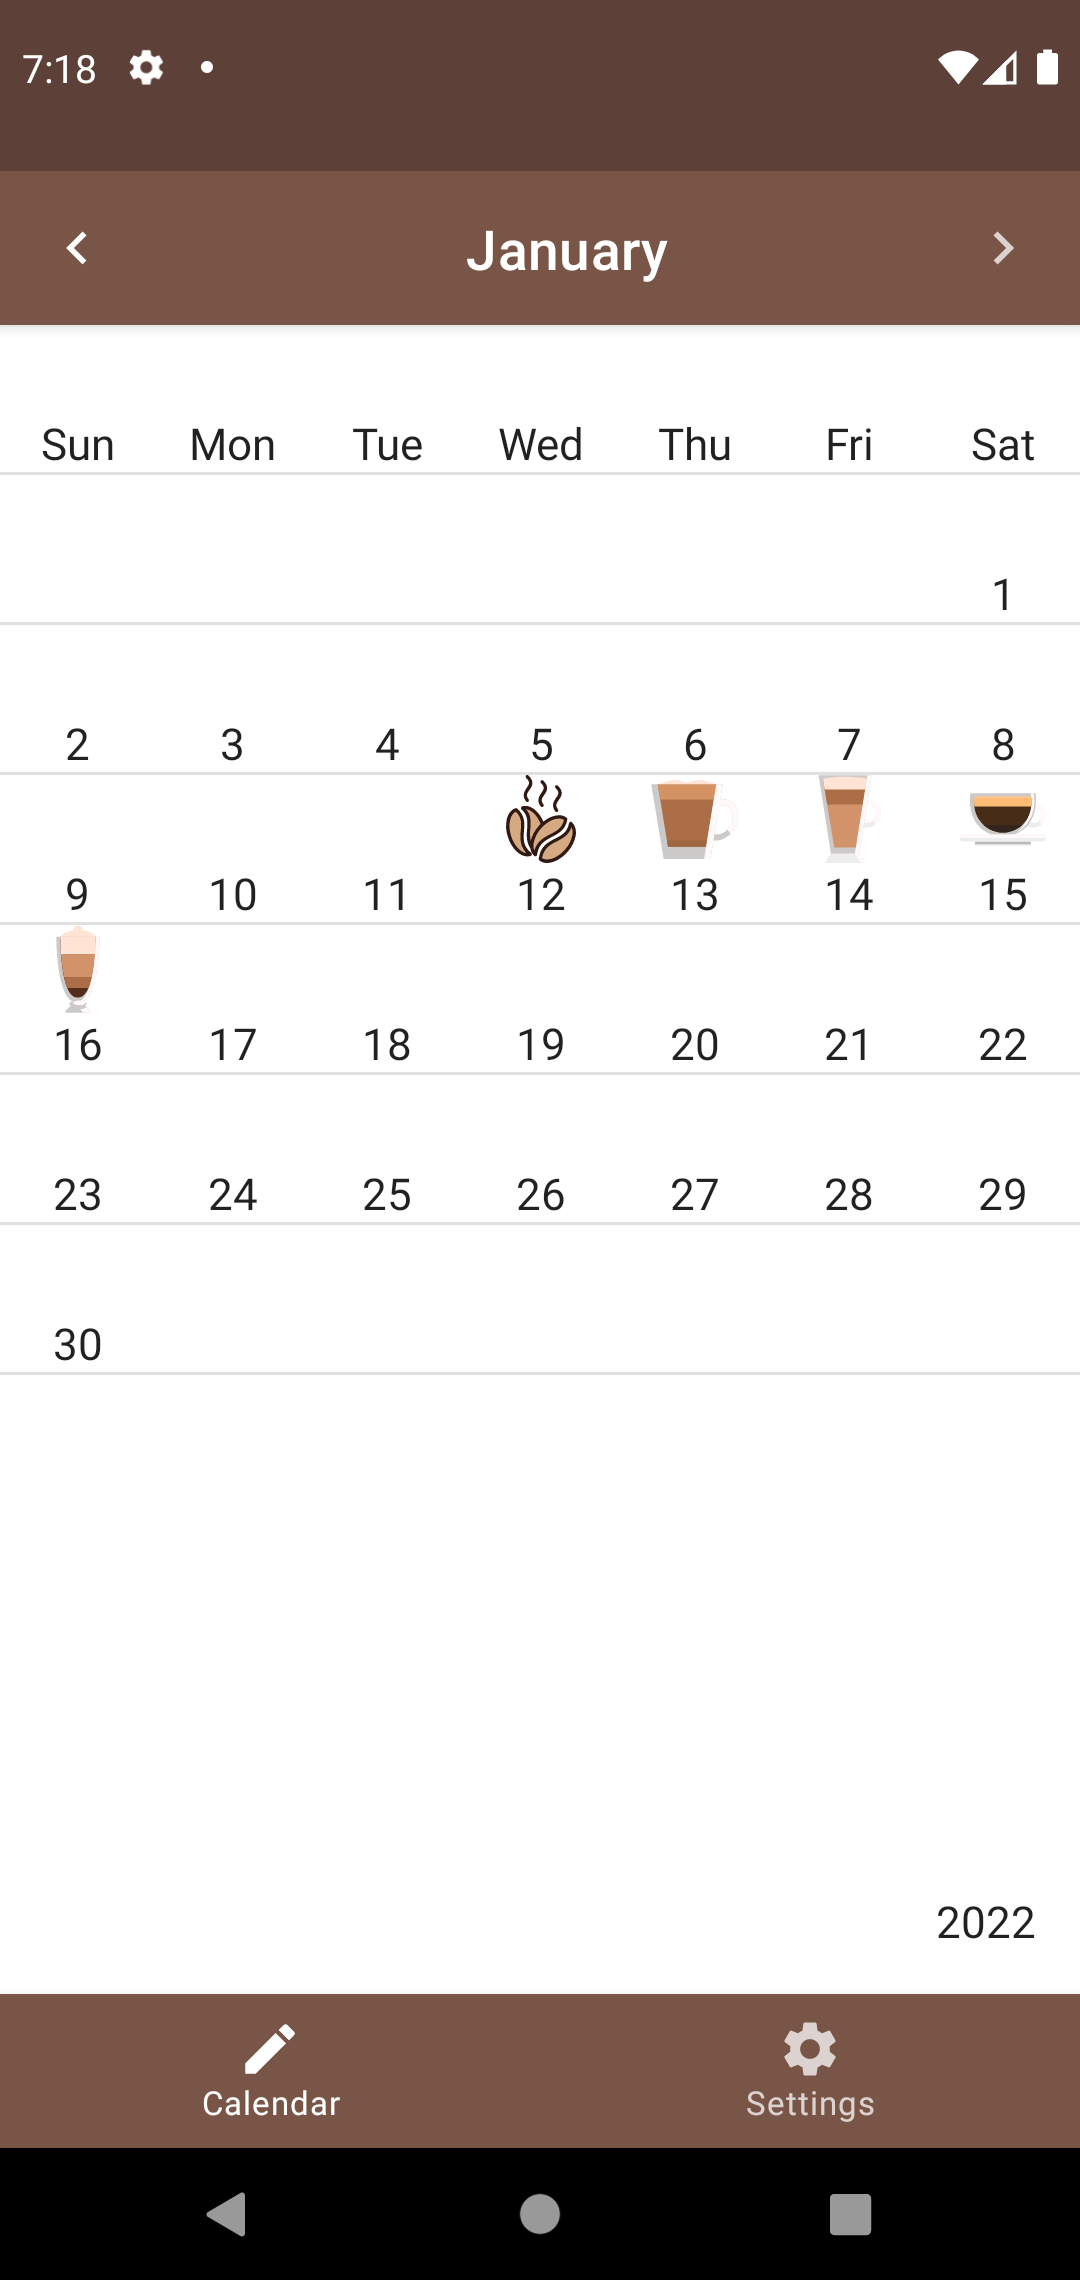
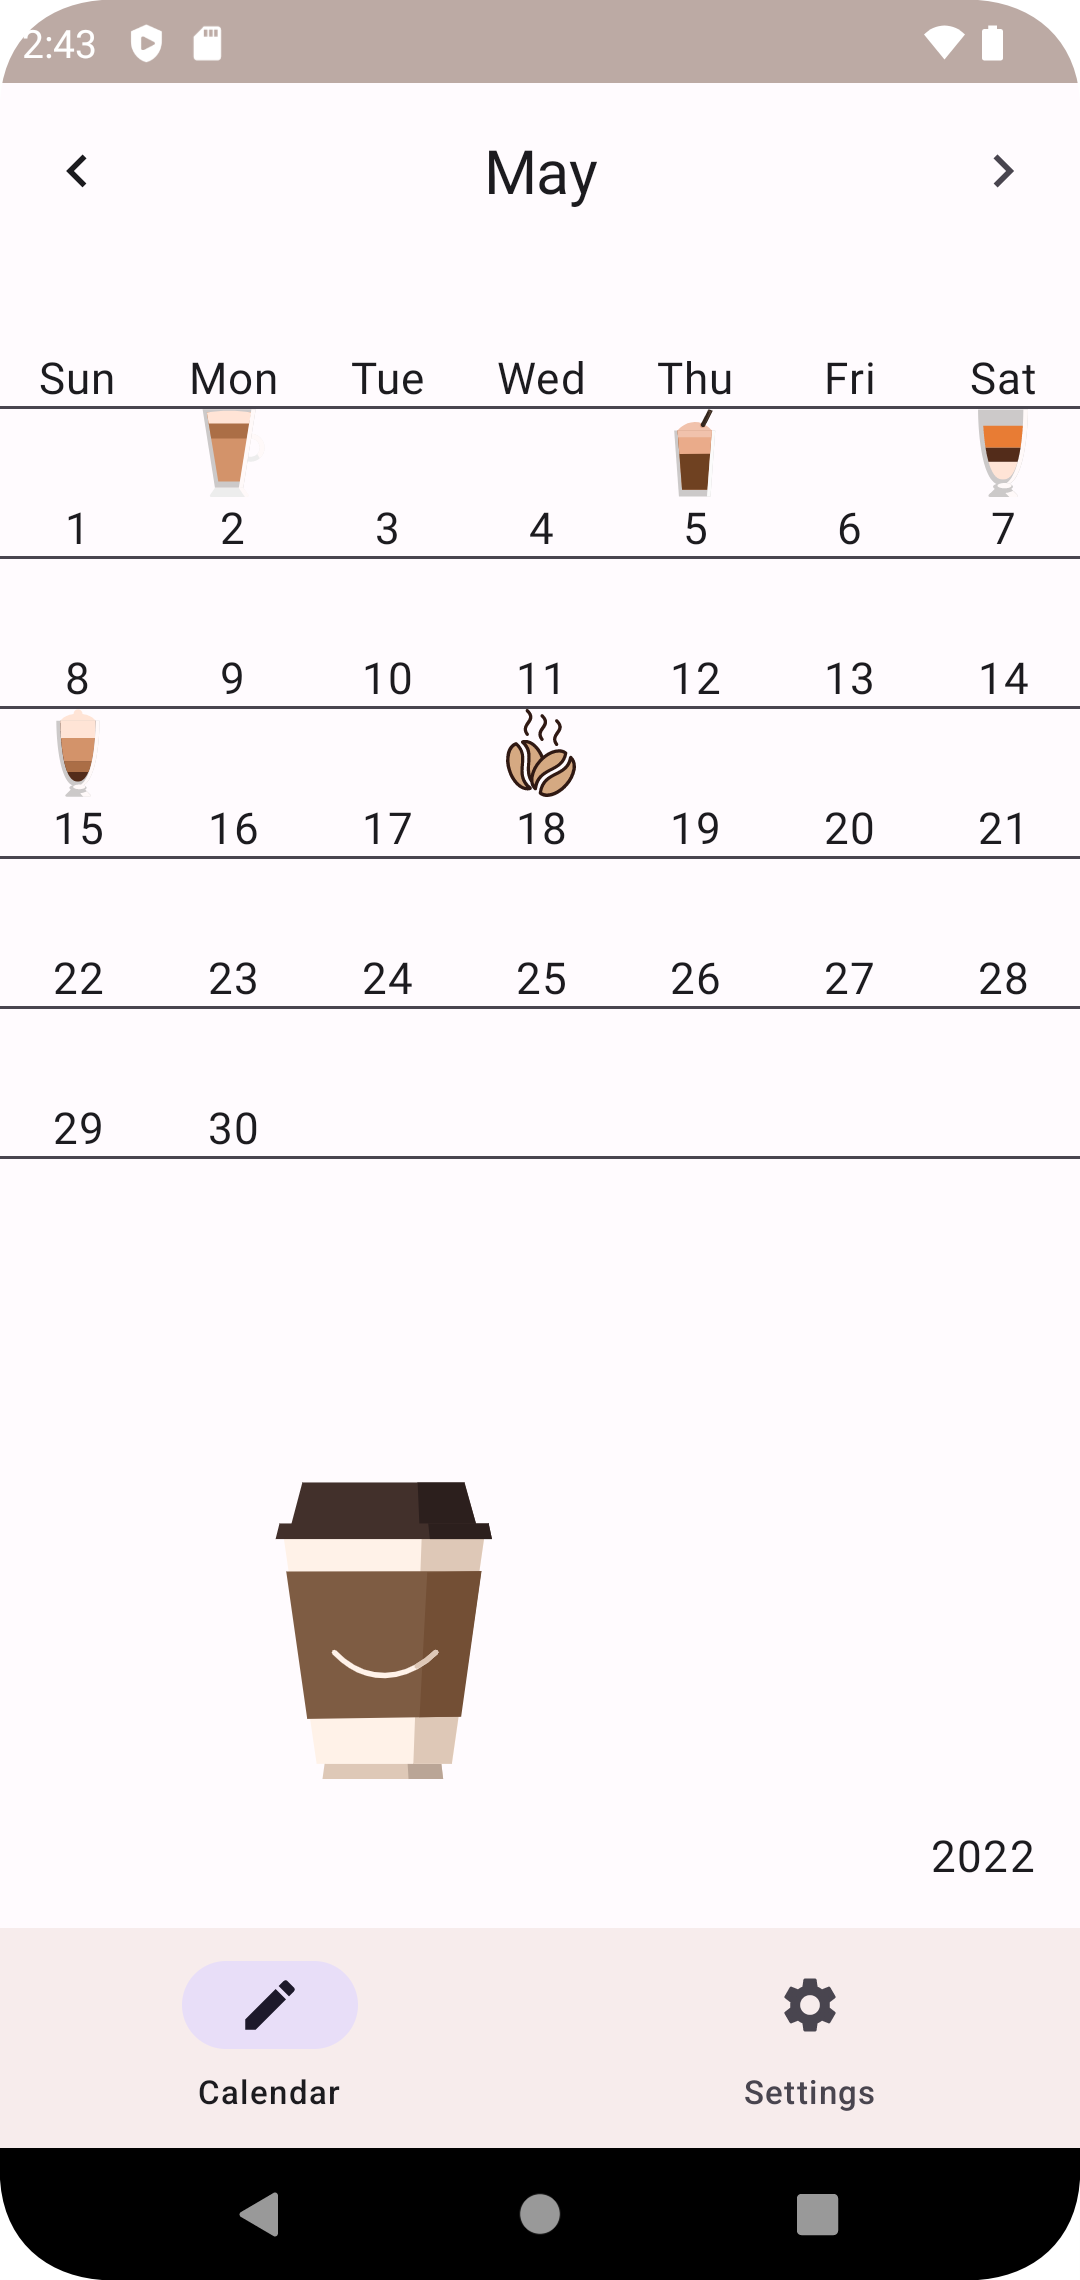
Update readme

diff --git a/README.md b/README.md
@@ -6,19 +6,40 @@
 ![Android CI](https://github.com/phansier/Coffeegram/workflows/Android%20CI/badge.svg?branch=master)
 [![Jetc.dev](https://img.shields.io/badge/jetc.dev-25-blue)](https://jetc.dev/issues/025.html)
 
-## Android app using Jetpack Compose together with StateFlow and MVI
-
-It uses Realm Multiplatform as an underlying database.
-
-Compose for wearable approbation
+## Android app in Jetpack Compose and MVI
 
 
+
+- Animated splash for Android 12
+
+- Material3 Dynamic(Harmonized, following device's theme)/Day/Night themes (switch enabled)
+
+- Glance AppWidgets
+
+- Compose for Wearable
+
+
+- Jetpack Datastore
+
+- Realm Multiplatform as an underlying database
+
+<img src="images/month_table.png" alt="drawing" width="200"/>
+<img src="images/coffee_list.png" alt="drawing" width="200"/>
+<br>
+<img src="images/settings.png" alt="drawing" width="200"/>
+<img src="images/settings_dynamic.png" alt="drawing" width="200"/>
+<br>
+<img src="images/widgets.png" alt="drawing" width="200"/>
 <img src="images/wear.png" alt="drawing" width="200"/>
 
 
 ---
 
 **Multiplatform version of the app for Android + Desktop (using Jetbrains Compose)** is available in [Coffeegram-Desktop](https://github.com/phansier/Coffeegram-Desktop) repo
+
+<img src="images/desktop.png" alt="drawing" width="400"/>
+
+
 
 ![](https://github.com/phansier/Coffeegram-Desktop/blob/desktop/images/desktop.png)
 
@@ -33,14 +54,3 @@ Compose for wearable approbation
 [Habr RU](https://habr.com/ru/company/kaspersky/blog/513364/)
 
 [Youtube (AppsFest) RU](https://youtu.be/CuCV-SGUuCQ/)
-
-After implementation of repository part it will be suitable for tracking of consumed coffee cups.
-
-The App consists of two screens:
-1) Table Month page
-
-![](images/month_table.png)
-
-2) Coffees list page
-
-![](images/coffee_list.png)
